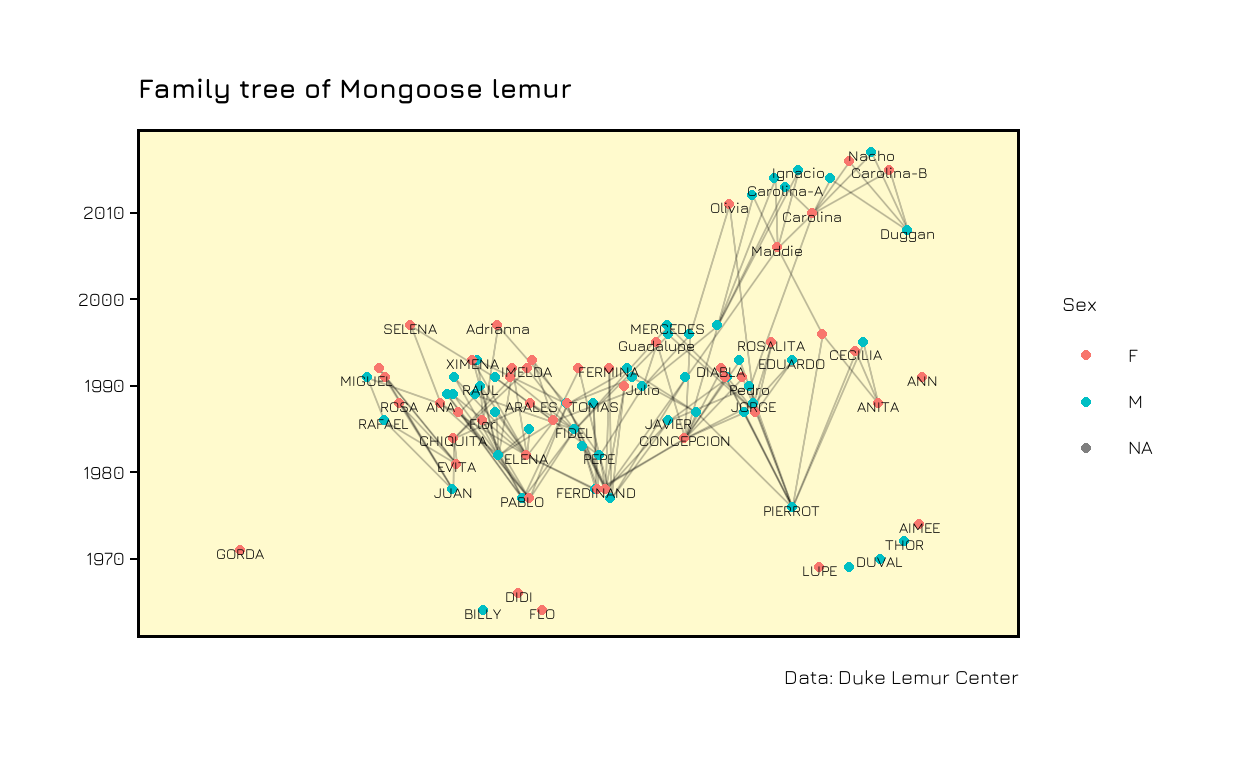
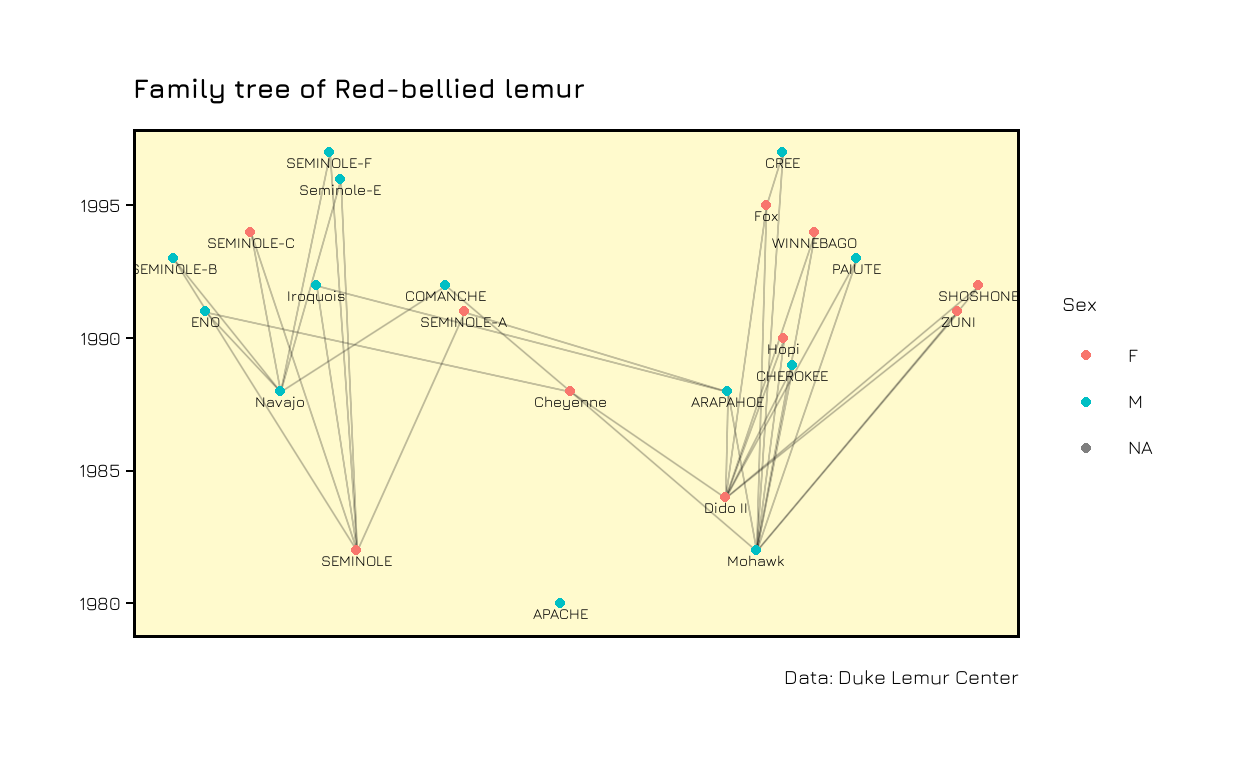
changed backbone to one fixed variable

diff --git a/_posts/2021-09-12-family-trees-with-ggraph/family-trees-with-ggraph.html b/_posts/2021-09-12-family-trees-with-ggraph/family-trees-with-ggraph.html
@@ -1762,13 +1762,13 @@ code span.wa { color: #5e5e5e; font-style: italic; } /* Warning */
 </div>
 <p><img src="family-trees-with-ggraph_files/figure-html5/unnamed-chunk-10-1.png" width="624" /></p>
 </div>
-<p>Now, we have a network where each child is connected to their parents. However, we are missing the temporal component. I first tried to put the year on one axis and a random value for each individual on the other axis, but it was a mess. This is when I found <a href="mr.schochastics.net/netVizR.html">this blogpost by David Schoch</a>. At the end of the post, David talks about backbone networks. The method described in <a href="https://jgaa.info/accepted/2015/NocajOrtmannBrandes2015.19.2.pdf">this paper</a> is used to disentangle networks with a lot of (weak) connections between all nodes. This is not our case, but it still came in handy to solve the problem I was trying to solve, namely to add a time component.</p>
-<p>The <code>layout_as_backbone</code> method from the {graphlayouts} package is giving us coordinates to plot our network manually. We will use the year of birth of each individual on the y-axis and get the corresponding x-axis value from the backbone network.</p>
+<p>Now, we have a network where each child is connected to their parents. However, we are missing the temporal component. I first tried to put the year on one axis and a random value for each individual on the other axis, but it was a mess. This is when I found <a href="mr.schochastics.net/netVizR.html">this blogpost by David Schoch</a>. At the end of the post, David talks about backbone networks. The method described in <a href="https://jgaa.info/accepted/2015/NocajOrtmannBrandes2015.19.2.pdf">this paper</a> is used to disentangle networks with a lot of (weak) connections between all nodes. This is not our case, but it still came in handy to solve the problem I was trying to solve, namely to add a time component. Actually, David responded to the first version of this blog post and told me that there was even a better way for this usecase than using a backbone:</p>
+<p>The <code>layout_with_constrained_stress</code> method from the {graphlayouts} package is giving us coordinates to plot our network manually. We will use the year of birth of each individual on the y-axis and get the corresponding x-axis value from the layout function.</p>
 <div class="layout-chunk" data-layout="l-body">
 <div class="sourceCode">
-<pre class="sourceCode r"><code class="sourceCode r"><span class='va'>bb</span> <span class='op'>&lt;-</span> <span class='fu'><a href='http://graphlayouts.schochastics.net/reference/layout_backbone.html'>layout_as_backbone</a></span><span class='op'>(</span><span class='va'>g</span><span class='op'>)</span>
+<pre class="sourceCode r"><code class="sourceCode r"><span class='va'>bb</span> <span class='op'>&lt;-</span> <span class='fu'><a href='http://graphlayouts.schochastics.net/reference/layout_constrained_stress.html'>layout_with_constrained_stress</a></span><span class='op'>(</span><span class='va'>g</span>, coord <span class='op'>=</span> <span class='va'>vertices</span><span class='op'>$</span><span class='va'>year</span>, fixdim <span class='op'>=</span> <span class='st'>"y"</span><span class='op'>)</span>
   
-<span class='fu'><a href='https://ggraph.data-imaginist.com/reference/ggraph.html'>ggraph</a></span><span class='op'>(</span><span class='va'>g</span>, layout <span class='op'>=</span> <span class='st'>"manual"</span>, x <span class='op'>=</span> <span class='va'>bb</span><span class='op'>$</span><span class='va'>xy</span><span class='op'>[</span>,<span class='fl'>1</span><span class='op'>]</span>, y <span class='op'>=</span> <span class='va'>year</span><span class='op'>)</span> <span class='op'>+</span>
+<span class='fu'><a href='https://ggraph.data-imaginist.com/reference/ggraph.html'>ggraph</a></span><span class='op'>(</span><span class='va'>g</span>, layout <span class='op'>=</span> <span class='st'>"manual"</span>, x <span class='op'>=</span> <span class='va'>bb</span><span class='op'>[</span>,<span class='fl'>1</span><span class='op'>]</span>, y <span class='op'>=</span> <span class='va'>bb</span><span class='op'>[</span>,<span class='fl'>2</span><span class='op'>]</span><span class='op'>)</span> <span class='op'>+</span>
   <span class='fu'><a href='https://ggraph.data-imaginist.com/reference/geom_edge_link.html'>geom_edge_link0</a></span><span class='op'>(</span>edge_width <span class='op'>=</span> <span class='fl'>0.1</span>, alpha <span class='op'>=</span> <span class='fl'>0.2</span><span class='op'>)</span><span class='op'>+</span>
   <span class='fu'><a href='https://ggraph.data-imaginist.com/reference/geom_node_point.html'>geom_node_point</a></span><span class='op'>(</span><span class='fu'>aes</span><span class='op'>(</span>col <span class='op'>=</span> <span class='va'>vertices</span><span class='op'>$</span><span class='va'>sex</span><span class='op'>)</span><span class='op'>)</span><span class='op'>+</span>
   <span class='fu'><a href='https://ggraph.data-imaginist.com/reference/geom_node_text.html'>geom_node_text</a></span><span class='op'>(</span><span class='fu'>aes</span><span class='op'>(</span>label <span class='op'>=</span> <span class='va'>vertices</span><span class='op'>$</span><span class='va'>lemur_name</span><span class='op'>)</span>,

diff --git a/_site/posts/2021-09-12-family-trees-with-ggraph/index.html b/_site/posts/2021-09-12-family-trees-with-ggraph/index.html
@@ -2709,13 +2709,13 @@ d-appendix d-footnote-list a.footnote-backlink {
 </div>
 <p><img src="family-trees-with-ggraph_files/figure-html5/unnamed-chunk-10-1.png" width="624" /></p>
 </div>
-<p>Now, we have a network where each child is connected to their parents. However, we are missing the temporal component. I first tried to put the year on one axis and a random value for each individual on the other axis, but it was a mess. This is when I found <a href="mr.schochastics.net/netVizR.html">this blogpost by David Schoch</a>. At the end of the post, David talks about backbone networks. The method described in <a href="https://jgaa.info/accepted/2015/NocajOrtmannBrandes2015.19.2.pdf">this paper</a> is used to disentangle networks with a lot of (weak) connections between all nodes. This is not our case, but it still came in handy to solve the problem I was trying to solve, namely to add a time component.</p>
-<p>The <code>layout_as_backbone</code> method from the {graphlayouts} package is giving us coordinates to plot our network manually. We will use the year of birth of each individual on the y-axis and get the corresponding x-axis value from the backbone network.</p>
+<p>Now, we have a network where each child is connected to their parents. However, we are missing the temporal component. I first tried to put the year on one axis and a random value for each individual on the other axis, but it was a mess. This is when I found <a href="mr.schochastics.net/netVizR.html">this blogpost by David Schoch</a>. At the end of the post, David talks about backbone networks. The method described in <a href="https://jgaa.info/accepted/2015/NocajOrtmannBrandes2015.19.2.pdf">this paper</a> is used to disentangle networks with a lot of (weak) connections between all nodes. This is not our case, but it still came in handy to solve the problem I was trying to solve, namely to add a time component. Actually, David responded to the first version of this blog post and told me that there was even a better way for this usecase than using a backbone:</p>
+<p>The <code>layout_with_constrained_stress</code> method from the {graphlayouts} package is giving us coordinates to plot our network manually. We will use the year of birth of each individual on the y-axis and get the corresponding x-axis value from the layout function.</p>
 <div class="layout-chunk" data-layout="l-body">
 <div class="sourceCode">
-<pre class="sourceCode r"><code class="sourceCode r"><span class='va'>bb</span> <span class='op'>&lt;-</span> <span class='fu'><a href='http://graphlayouts.schochastics.net/reference/layout_backbone.html'>layout_as_backbone</a></span><span class='op'>(</span><span class='va'>g</span><span class='op'>)</span>
+<pre class="sourceCode r"><code class="sourceCode r"><span class='va'>bb</span> <span class='op'>&lt;-</span> <span class='fu'><a href='http://graphlayouts.schochastics.net/reference/layout_constrained_stress.html'>layout_with_constrained_stress</a></span><span class='op'>(</span><span class='va'>g</span>, coord <span class='op'>=</span> <span class='va'>vertices</span><span class='op'>$</span><span class='va'>year</span>, fixdim <span class='op'>=</span> <span class='st'>"y"</span><span class='op'>)</span>
   
-<span class='fu'><a href='https://ggraph.data-imaginist.com/reference/ggraph.html'>ggraph</a></span><span class='op'>(</span><span class='va'>g</span>, layout <span class='op'>=</span> <span class='st'>"manual"</span>, x <span class='op'>=</span> <span class='va'>bb</span><span class='op'>$</span><span class='va'>xy</span><span class='op'>[</span>,<span class='fl'>1</span><span class='op'>]</span>, y <span class='op'>=</span> <span class='va'>year</span><span class='op'>)</span> <span class='op'>+</span>
+<span class='fu'><a href='https://ggraph.data-imaginist.com/reference/ggraph.html'>ggraph</a></span><span class='op'>(</span><span class='va'>g</span>, layout <span class='op'>=</span> <span class='st'>"manual"</span>, x <span class='op'>=</span> <span class='va'>bb</span><span class='op'>[</span>,<span class='fl'>1</span><span class='op'>]</span>, y <span class='op'>=</span> <span class='va'>bb</span><span class='op'>[</span>,<span class='fl'>2</span><span class='op'>]</span><span class='op'>)</span> <span class='op'>+</span>
   <span class='fu'><a href='https://ggraph.data-imaginist.com/reference/geom_edge_link.html'>geom_edge_link0</a></span><span class='op'>(</span>edge_width <span class='op'>=</span> <span class='fl'>0.1</span>, alpha <span class='op'>=</span> <span class='fl'>0.2</span><span class='op'>)</span><span class='op'>+</span>
   <span class='fu'><a href='https://ggraph.data-imaginist.com/reference/geom_node_point.html'>geom_node_point</a></span><span class='op'>(</span><span class='fu'>aes</span><span class='op'>(</span>col <span class='op'>=</span> <span class='va'>vertices</span><span class='op'>$</span><span class='va'>sex</span><span class='op'>)</span><span class='op'>)</span><span class='op'>+</span>
   <span class='fu'><a href='https://ggraph.data-imaginist.com/reference/geom_node_text.html'>geom_node_text</a></span><span class='op'>(</span><span class='fu'>aes</span><span class='op'>(</span>label <span class='op'>=</span> <span class='va'>vertices</span><span class='op'>$</span><span class='va'>lemur_name</span><span class='op'>)</span>,
